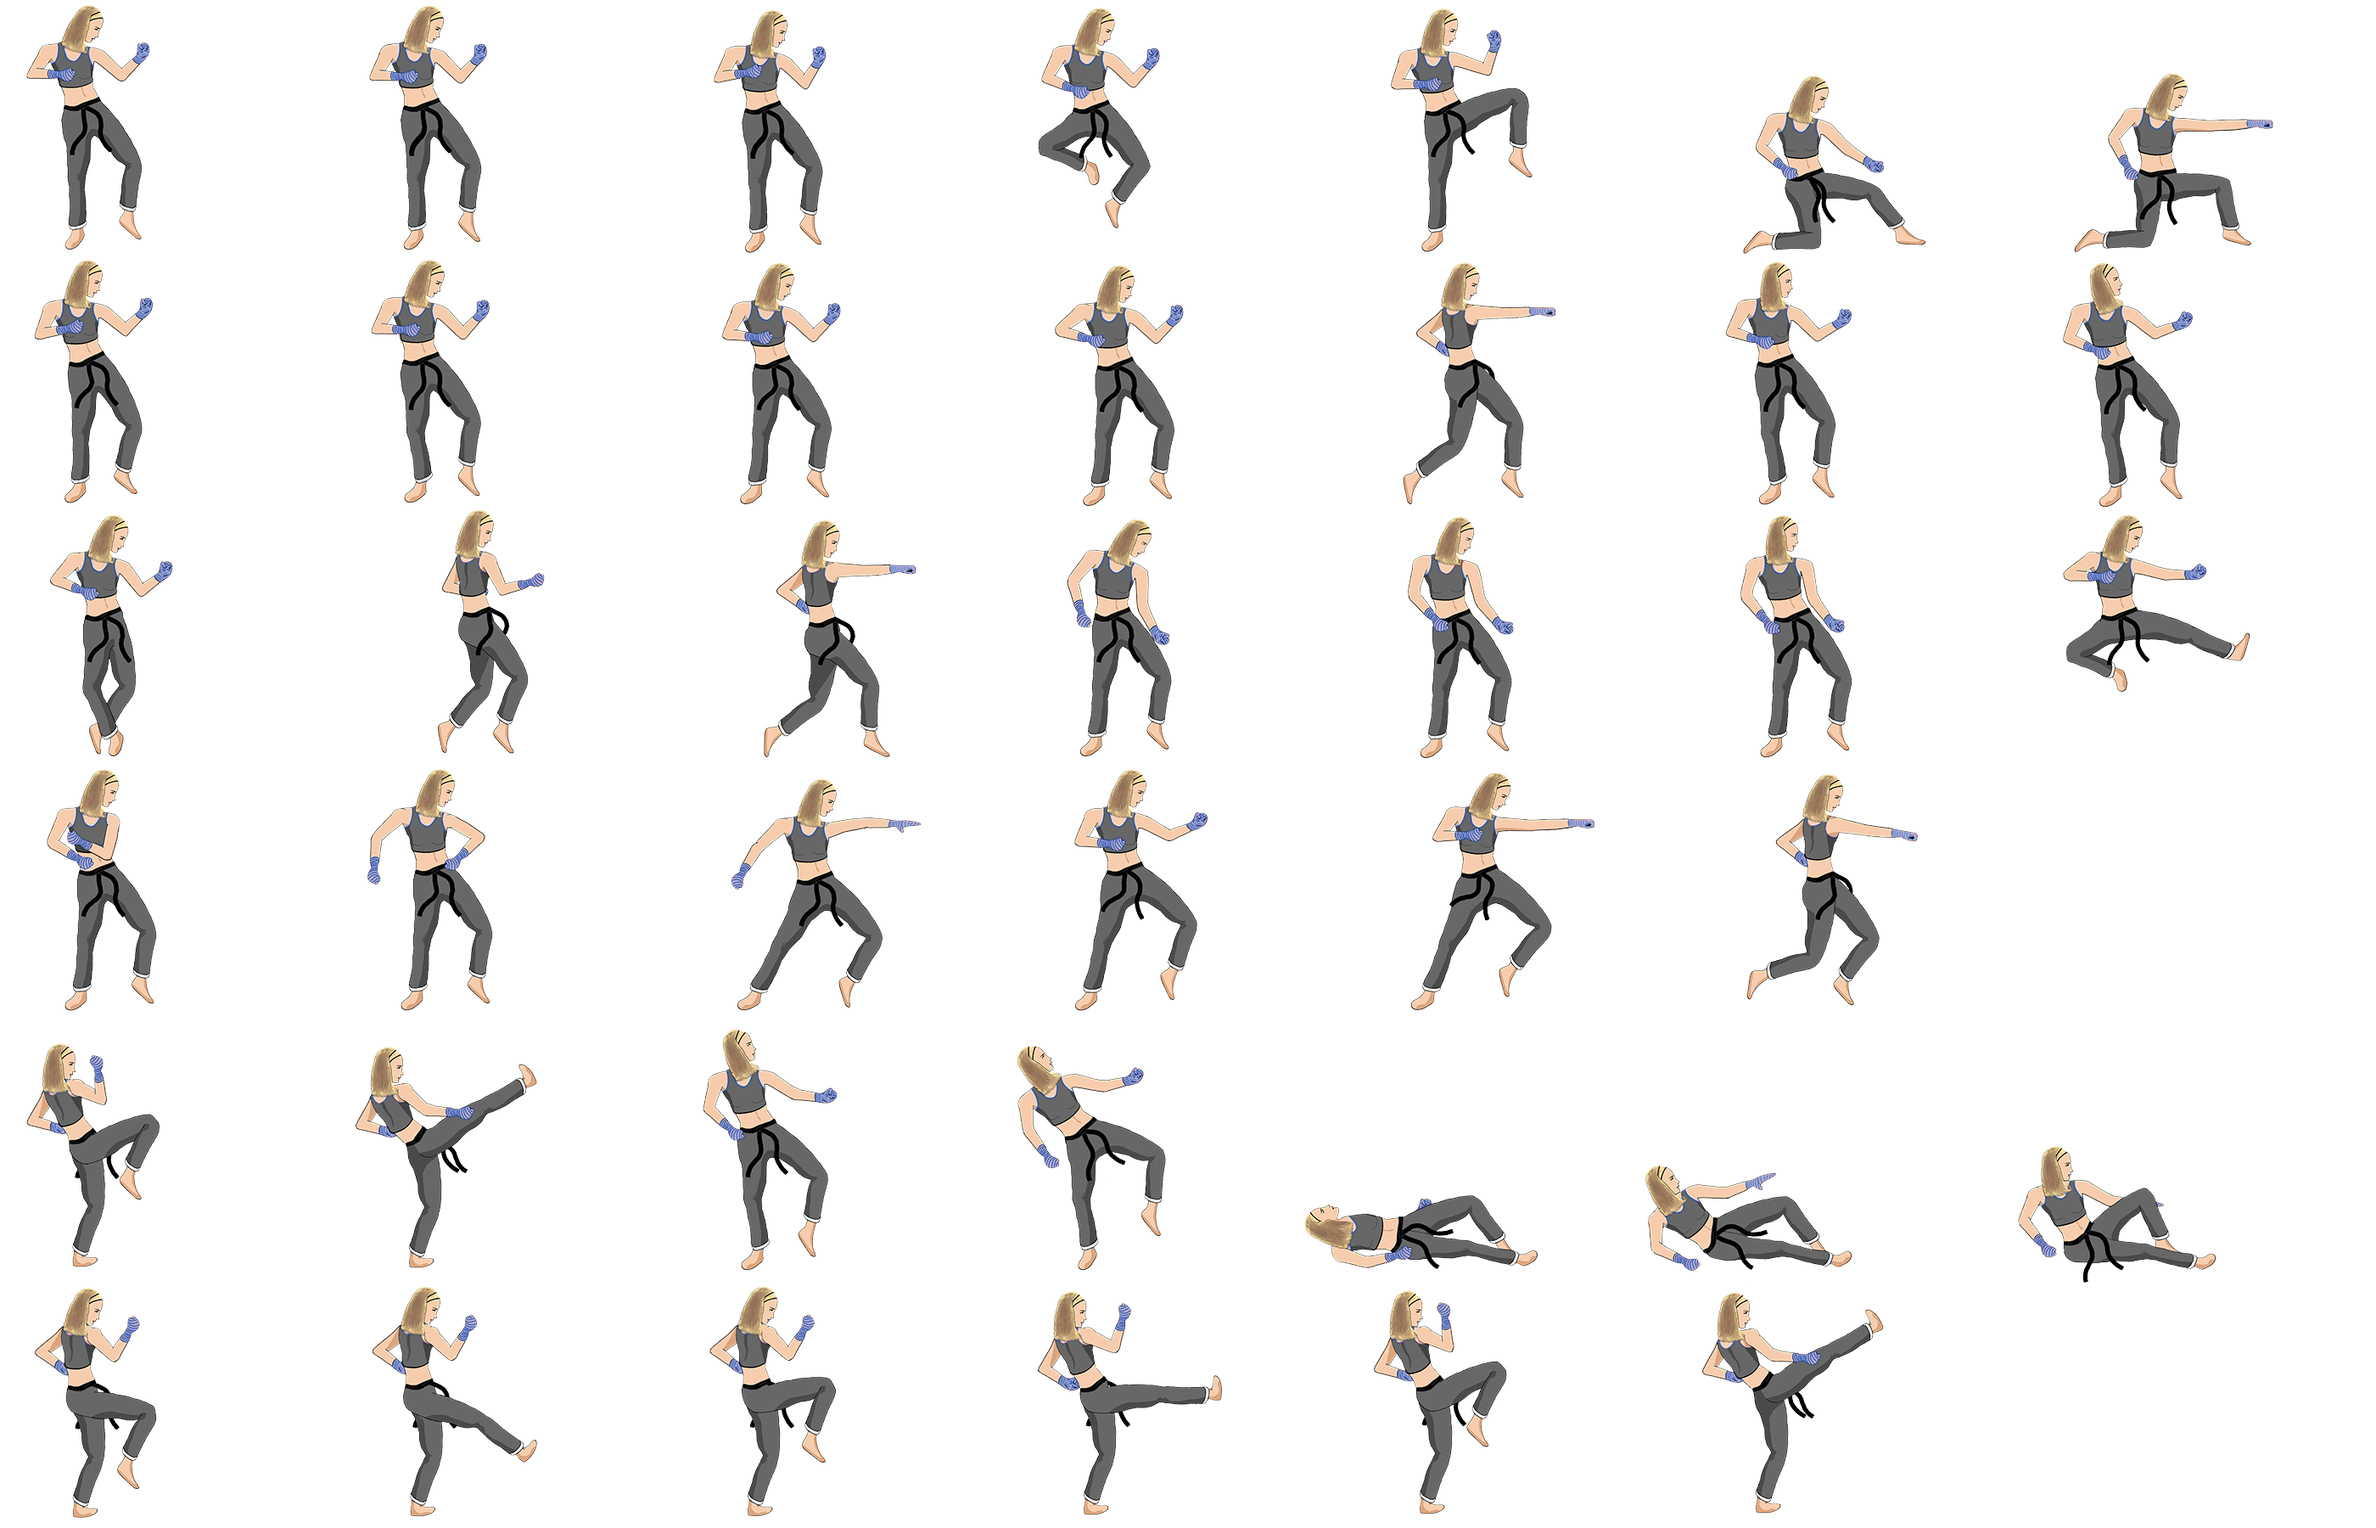
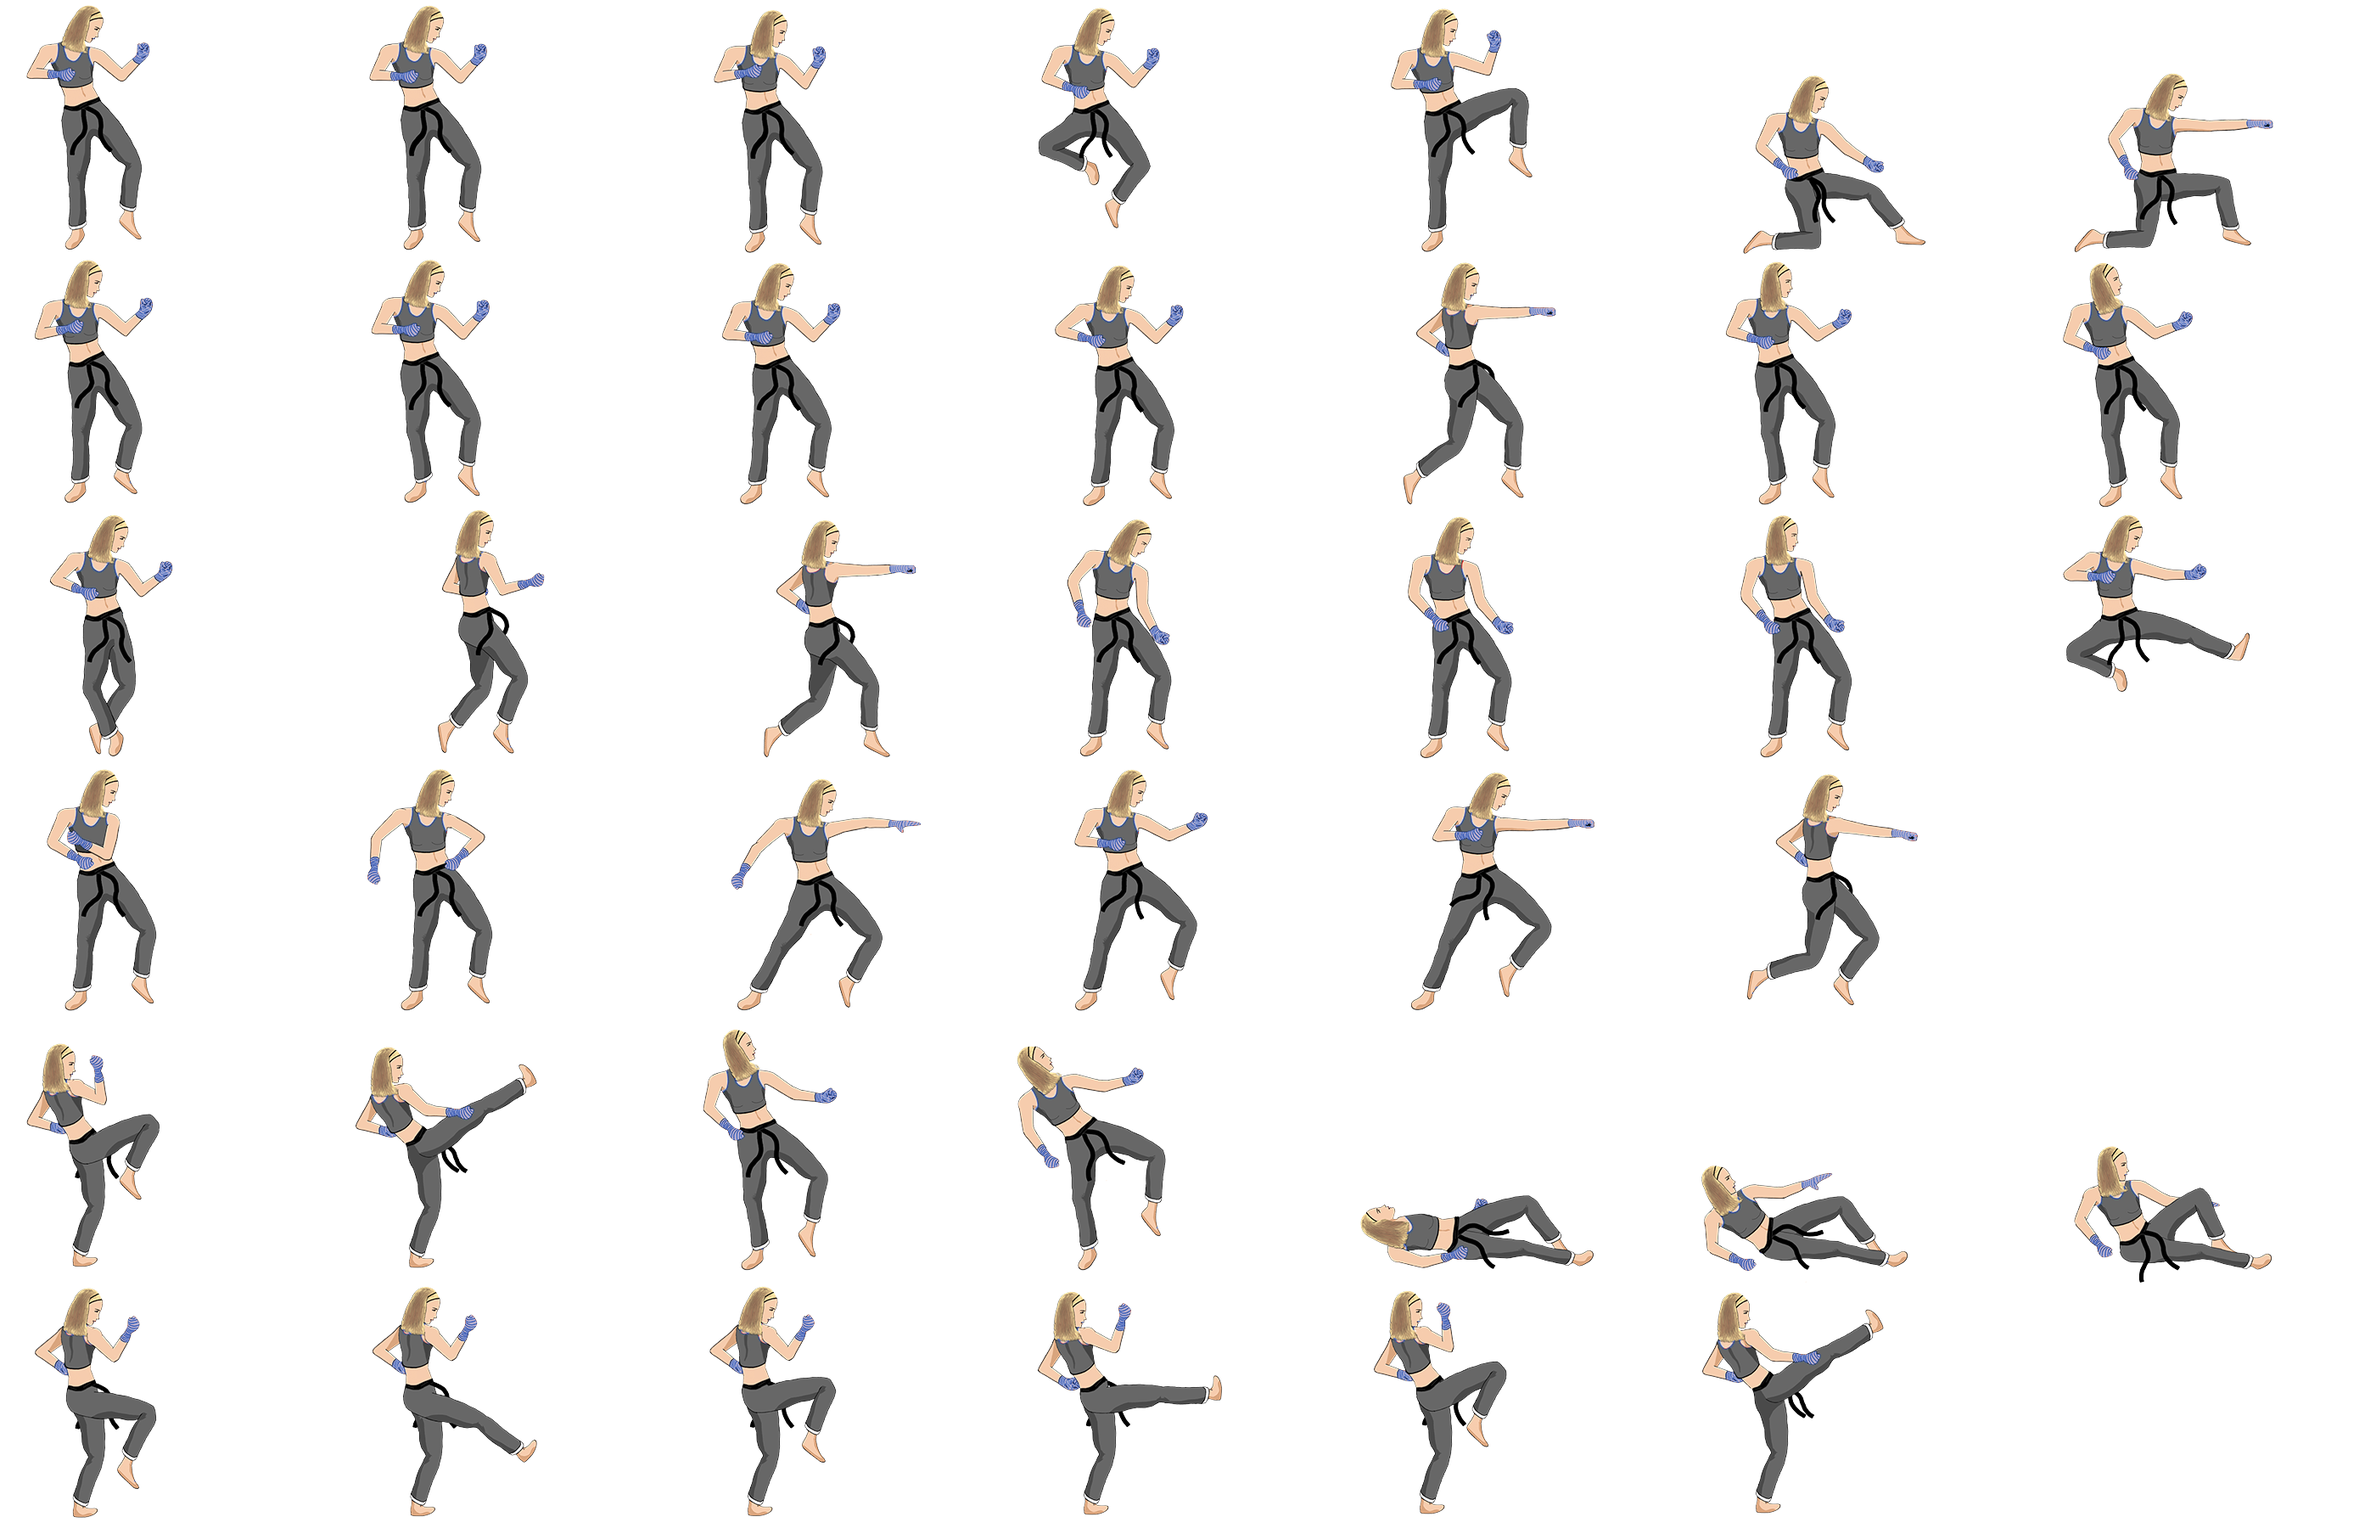
bilder fixed, enddelay

Changed region(s): [[0.5282, 0.7467, 0.8079, 0.84], [0.8389, 0.7467, 0.9632, 0.84]]

diff --git a/phonegap/www/js/menu.js b/phonegap/www/js/menu.js
@@ -89,27 +89,30 @@ var menu = {
     },
     gameover : function(data){
         keyboard.block = true;
-        game.phaser.destroy();
-        console.log(data);
-        var text = "";
-        $('#gameover').removeClass('youwin');
-        $('#gameover').removeClass('youlose');
-        if(data.won){
-            $('#gameover').addClass('youwin');
-            text = "Elo dazugewonnen: " ;
-        } else {
-            $('#gameover').addClass('youlose');
-            text = "Elo verloren: " ;
-        }
-        text += data.diff + "<br> Jetztiges Elo: " + data.elo + "<br> Aktueller Platz: " + data.rank;
-        game.options = undefined;
-        $('#gameover div').html(text);
-        $('#gamescreen').hide();
-        $('#gameover').show();
-        $('#back').show();
-        $('#menumusicbutton').show();
-        removeTouchInterface();
-        removeShake();
+        setTimeout(function(){
+            game.phaser.destroy();
+            console.log(data);
+            var text = "";
+            $('#gameover').removeClass('youwin');
+            $('#gameover').removeClass('youlose');
+            if(data.won){
+                $('#gameover').addClass('youwin');
+                text = "Elo dazugewonnen: " ;
+            } else {
+                $('#gameover').addClass('youlose');
+                text = "Elo verloren: " ;
+            }
+            text += data.diff + "<br> Jetztiges Elo: " + data.elo + "<br> Aktueller Platz: " + data.rank;
+            game.options = undefined;
+            $('#gameover div').html(text);
+            $('#gamescreen').hide();
+            $('#gameover').show();
+            $('#back').show();
+            $('#menumusicbutton').show();
+            removeTouchInterface();
+            removeShake();
+        },3000);
+
     },
     selectMap : function(e){
         menu.options.character = $(e.currentTarget).attr('id');

diff --git a/phonegap/www/js/game.js b/phonegap/www/js/game.js
@@ -154,6 +154,7 @@ var game = {
             var isHyper = game[color].animations.add('hyper',game.options.characters[color].action.hyper.animation.frames);
             //Ko
             var isKO = game[color].animations.add('ko',game.options.characters[color].action.ko.animation.frames);
+            var dead = game[color].animations.add('dead',game.options.characters[color].action.ko.animation.frames.pop());
 
             //add attributes
             var attributes = {
@@ -173,7 +174,8 @@ var game = {
                     isSpecial1:isSpecial1,
                     isSpecial2:isSpecial2,
                     isHyper:isHyper,
-                    isKO:isKO
+                    isKO:isKO,
+                    dead:dead
                 };
             game[color] = $.extend(game[color],attributes);
             
@@ -411,7 +413,14 @@ var game = {
                 projectile.create(color,"hyper");
             }
             else if(game[color].ko){
-                    game[color].animations.play('ko', 3, false);
+                if(!game[color].koAlready){
+                    game[color].animations.play('ko', 10, false);
+                    game[color].koAlready = Date.now();
+                } else if(game[color].koAlready + 500 < Date.now()) {
+
+                    game[color].animations.play('dead', 5, false);
+                }
+
             }
             else {
                 if(game[color].crouch){
@@ -430,7 +439,7 @@ var game = {
             }
             projectile.update(color);
         }
-        
+
         game.ebene2.tilePosition.x += .25;
         
         //Parallax

diff --git a/phonegap/www/js/loader.js b/phonegap/www/js/loader.js
@@ -30,8 +30,8 @@ var loader = {
         //game.phaser.load.script('filter', 'https://cdn.rawgit.com/photonstorm/phaser/master/filters/Fire.js');
 
         //game.phaser.load.spritesheet('muaythai', 'muay_thai.png', 400, 300, 14);
-        game.phaser.load.spritesheet(color1, 'img/' + charname1 + 'blue.png', framesinfo1.w, framesinfo1.h, framesinfo1.count);
-        game.phaser.load.spritesheet(color2, 'img/' + charname2 + 'red.png', framesinfo2.w, framesinfo2.h, framesinfo2.count);
+        game.phaser.load.spritesheet(color1, 'img/' + charname1 + color1 + '.png', framesinfo1.w, framesinfo1.h, framesinfo1.count);
+        game.phaser.load.spritesheet(color2, 'img/' + charname2 + color2 + '.png', framesinfo2.w, framesinfo2.h, framesinfo2.count);
         game.phaser.load.spritesheet('fx1', 'img/fx1.png', 70, 70, 4);
         game.phaser.load.image('bgtrans', 'img/bgtrans.png');
         game.phaser.load.image('ebene1', map+'/ebene1.png');

diff --git a/phonegap/www/js/multiplayer.js b/phonegap/www/js/multiplayer.js
@@ -112,7 +112,7 @@ var multiplayer = {
                     game[color].projectileExist = actions[color].attack.projectile.exist;
                     game[color].projectileX = actions[color].attack.projectile.posX;
                     game[color].projectileY = actions[color].attack.projectile.posY;
-                    console.log(color, game[color].gotHit);
+                    //console.log(color, game[color].gotHit);
                     if(game[color].gotHit){
                         game[color].gotHitTimer = Date.now() + 300;
                         if(!game[color].hotHitId)
